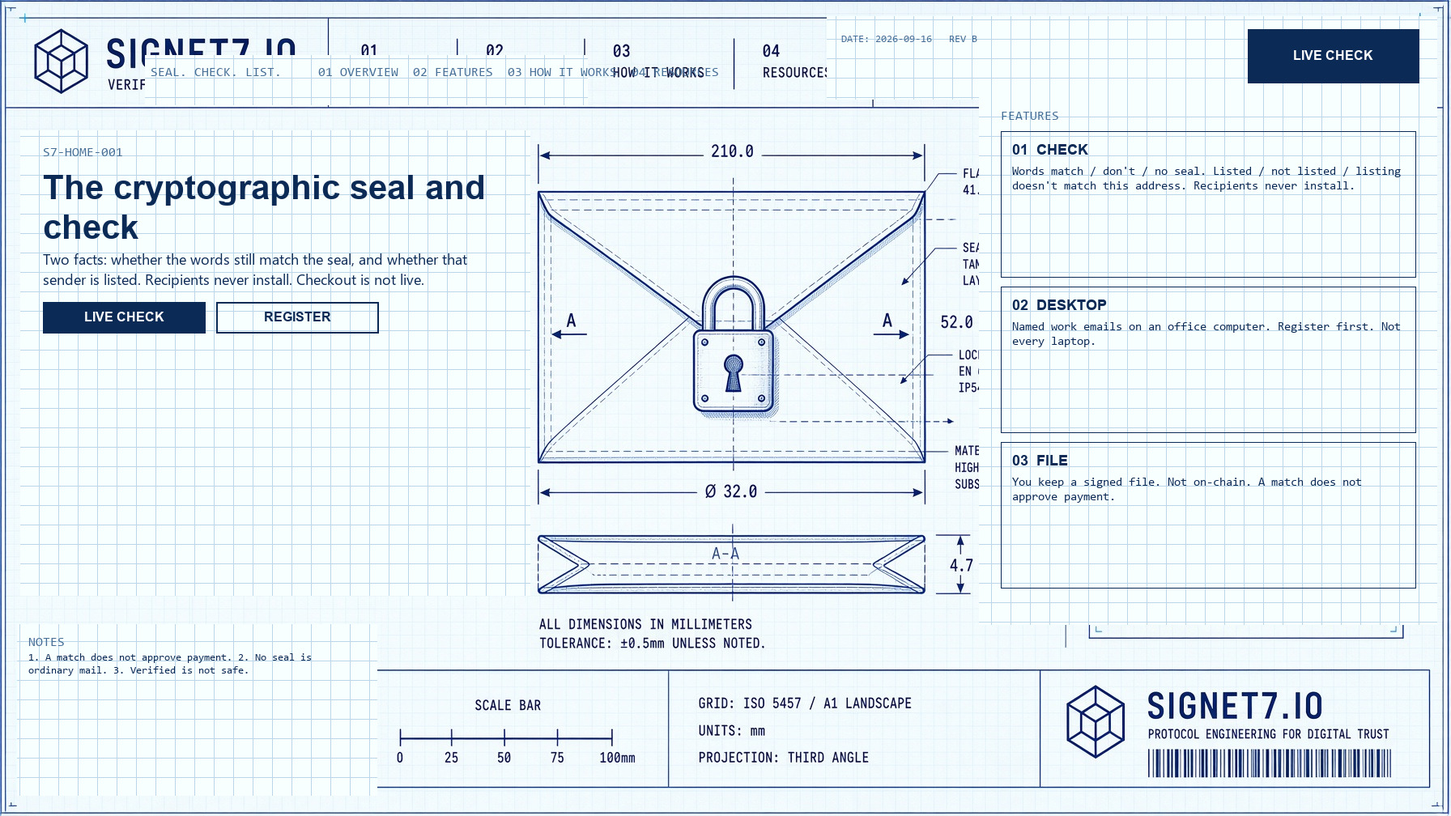
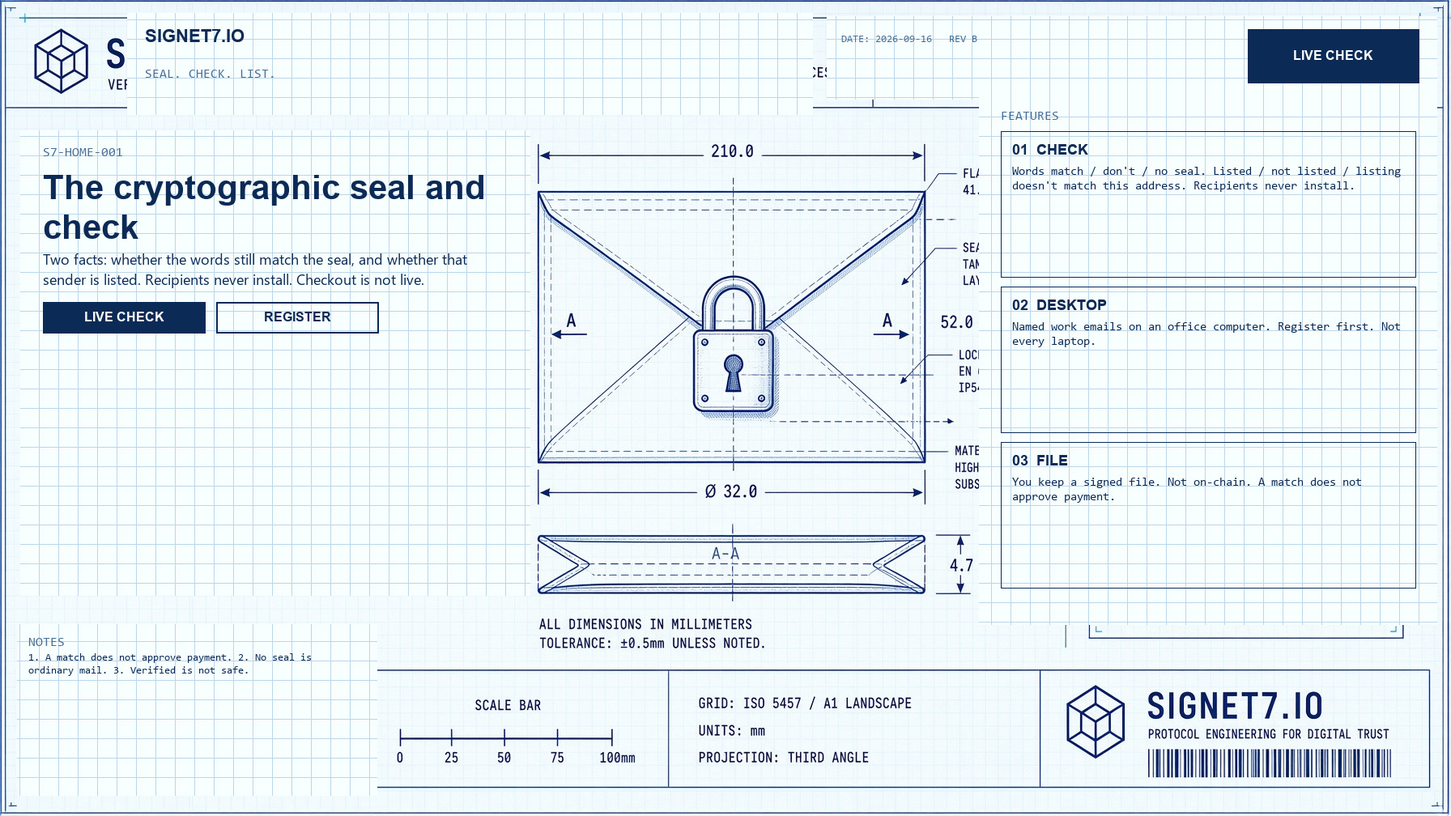
fix(site): clean mashed CAD header on homepage drawing (#174)
Cover leftover OVERVIEW/VERIFY chrome. Keep envelope, two-fact copy,
Live check / Register.

Changed region(s): [[0.0938, 0.0, 0.5625, 0.123]]

diff --git a/index.html b/index.html
@@ -14,11 +14,11 @@
   <meta property="og:description" content="Check whether an important email still matches the seal, and whether that sender is listed.">
   <meta property="og:type" content="website">
   <meta property="og:url" content="https://signet7.io/">
-  <meta property="og:image" content="https://signet7.io/assets/blueprint/homepage.jpg?v=20260916a">
+  <meta property="og:image" content="https://signet7.io/assets/blueprint/homepage.jpg?v=20260916b">
   <link rel="canonical" href="https://signet7.io/">
   <link rel="alternate" type="application/ld+json" href="assets/ld-website.json">
   <link rel="icon" type="image/png" href="assets/favicon.png">
-  <link rel="stylesheet" href="assets/site.css?v=20260916a">
+  <link rel="stylesheet" href="assets/site.css?v=20260916b">
   <script type="application/ld+json" src="assets/ld-website.json"></script>
 </head>
 <body class="home">
@@ -59,7 +59,7 @@
   <main id="main">
     <section class="sell-hero" aria-labelledby="hero-title">
       <div class="scene-wrap hero-scene cad-scene">
-        <img class="cad-envelope blueprint-hero" src="assets/blueprint/homepage.jpg?v=20260916a" width="1792" height="1008" alt="Signet7 homepage blueprint drawing with a dimensioned sealed envelope on a CAD grid.">
+        <img class="cad-envelope blueprint-hero" src="assets/blueprint/homepage.jpg?v=20260916b" width="1792" height="1008" alt="Signet7 homepage blueprint drawing with a dimensioned sealed envelope on a CAD grid.">
       </div>
       <div class="container nutshell">
         <p class="kicker dim">DWG S7-HOME-001 · REV A · SCALE NTS</p>
@@ -79,17 +79,17 @@
         <h2>Check a message. List the work email. Keep the file.</h2>
         <div class="feature-grid">
           <article class="feat">
-            <a href="check"><img src="assets/blueprint/check.jpg?v=20260916a" width="1792" height="1008" alt="Live-check blueprint drawing."></a>
+            <a href="check"><img src="assets/blueprint/check.jpg?v=20260916b" width="1792" height="1008" alt="Live-check blueprint drawing."></a>
             <h3>Check a message</h3>
             <p>Free. No account. Save the original message and drop it on the live check. Recipients never install.</p>
           </article>
           <article class="feat">
-            <a href="download"><img src="assets/blueprint/download.jpg?v=20260916a" width="1792" height="1008" alt="Desktop download blueprint drawing."></a>
+            <a href="download"><img src="assets/blueprint/download.jpg?v=20260916b" width="1792" height="1008" alt="Desktop download blueprint drawing."></a>
             <h3>List the work email</h3>
             <p>Register first. Signet7 desktop on named work emails. Not every laptop. Recipients never install.</p>
           </article>
           <article class="feat">
-            <a href="product"><img src="assets/blueprint/evidence.jpg?v=20260916a" width="1792" height="1008" alt="Evidence-record blueprint drawing."></a>
+            <a href="product"><img src="assets/blueprint/evidence.jpg?v=20260916b" width="1792" height="1008" alt="Evidence-record blueprint drawing."></a>
             <h3>Keep the file</h3>
             <p>The seal is on the message. That file is the record. You can show later that the words still matched.</p>
           </article>
@@ -102,9 +102,9 @@
         <p class="eyebrow">SHEET INDEX</p>
         <h2>The drawings</h2>
         <div class="feature-grid">
-          <article class="feat"><a href="product"><img src="assets/blueprint/product.jpg?v=20260916a" width="1792" height="1008" alt="Product blueprint drawing."></a><h3>Product</h3><p>Seal, check, desktop.</p></article>
-          <article class="feat"><a href="programs"><img src="assets/blueprint/programs.jpg?v=20260916a" width="1792" height="1008" alt="Programs blueprint drawing."></a><h3>Programs</h3><p>Checkout is not live. Amounts are not set.</p></article>
-          <article class="feat"><a href="docs.html"><img src="assets/blueprint/howto.jpg?v=20260916a" width="1792" height="1008" alt="How-to blueprint drawing."></a><h3>Docs</h3><p>How to check. How to install after register.</p></article>
+          <article class="feat"><a href="product"><img src="assets/blueprint/product.jpg?v=20260916b" width="1792" height="1008" alt="Product blueprint drawing."></a><h3>Product</h3><p>Seal, check, desktop.</p></article>
+          <article class="feat"><a href="programs"><img src="assets/blueprint/programs.jpg?v=20260916b" width="1792" height="1008" alt="Programs blueprint drawing."></a><h3>Programs</h3><p>Checkout is not live. Amounts are not set.</p></article>
+          <article class="feat"><a href="docs.html"><img src="assets/blueprint/howto.jpg?v=20260916b" width="1792" height="1008" alt="How-to blueprint drawing."></a><h3>Docs</h3><p>How to check. How to install after register.</p></article>
         </div>
       </div>
     </section>

diff --git a/programs.html b/programs.html
@@ -5,7 +5,7 @@
  enforceable subset. NOTE: frame-ancestors is ignored when delivered via <meta>;
  real clickjacking protection requires a header layer (Cloudflare/CloudFront) and
  is required before any verification surface is hosted on this domain. -->
-<meta http-equiv="Content-Security-Policy" content="default-src 'self'; script-src 'self'; style-src 'self'; img-src 'self'; font-src 'self'; connect-src 'self'; object-src 'none'; base-uri 'none'; form-action 'self'; frame-ancestors 'none'; upgrade-insecure-requests"><meta name="referrer" content="strict-origin-when-cross-origin"><meta http-equiv="X-Content-Type-Options" content="nosniff"><title>Programs | Signet7</title><meta name="description" content="Signet7 can seal outgoing email. Check for free. Signet7 desktop names several work emails. Each email gets its own listing. Checkout is not live."><link rel="canonical" href="https://signet7.io/programs"><meta property="og:title" content="Programs | Signet7"><meta property="og:description" content="Signet7 can seal outgoing email. Check for free. Signet7 desktop for several work emails. Checkout is not live."><meta property="og:type" content="website"><meta property="og:url" content="https://signet7.io/programs"><meta property="og:image" content="https://signet7.io/assets/blueprint/homepage.jpg?v=20260916a"><meta name="twitter:card" content="summary_large_image"><link rel="icon" type="image/png" href="assets/favicon.png"><meta name="theme-color" content="#05080d"><link rel="stylesheet" href="assets/site.css?v=20260916a"></head>
+<meta http-equiv="Content-Security-Policy" content="default-src 'self'; script-src 'self'; style-src 'self'; img-src 'self'; font-src 'self'; connect-src 'self'; object-src 'none'; base-uri 'none'; form-action 'self'; frame-ancestors 'none'; upgrade-insecure-requests"><meta name="referrer" content="strict-origin-when-cross-origin"><meta http-equiv="X-Content-Type-Options" content="nosniff"><title>Programs | Signet7</title><meta name="description" content="Signet7 can seal outgoing email. Check for free. Signet7 desktop names several work emails. Each email gets its own listing. Checkout is not live."><link rel="canonical" href="https://signet7.io/programs"><meta property="og:title" content="Programs | Signet7"><meta property="og:description" content="Signet7 can seal outgoing email. Check for free. Signet7 desktop for several work emails. Checkout is not live."><meta property="og:type" content="website"><meta property="og:url" content="https://signet7.io/programs"><meta property="og:image" content="https://signet7.io/assets/blueprint/homepage.jpg?v=20260916b"><meta name="twitter:card" content="summary_large_image"><link rel="icon" type="image/png" href="assets/favicon.png"><meta name="theme-color" content="#05080d"><link rel="stylesheet" href="assets/site.css?v=20260916b"></head>
 <body>
  <a class="skip-link" href="#main">Skip to content</a>
  <header class="site-header"><div class="container nav-wrap"><a class="brand" href="/"><svg class="cad-mark" viewBox="0 0 64 64" width="46" height="46" aria-hidden="true" focusable="false"><g fill="none" stroke="#7ed6f0" stroke-width="2.2"><path d="M12 22 L32 12 L52 22 L52 42 L32 52 L12 42 Z"/><path d="M32 12 L32 32 L12 42"/><path d="M32 32 L52 42"/></g></svg><span>Signet7</span></a> <button class="nav-toggle" type="button" aria-expanded="false" aria-controls="site-nav" aria-label="Open menu">Menu</button>
@@ -34,7 +34,7 @@
  <main id="main">
  <section class="page-hero"><div class="container"><p class="eyebrow">Commercial direction</p><h1>Seal outgoing email. Check for free. Signet7 desktop for several work emails.</h1><p class="hero-copy">Signet7 can cryptographically seal outgoing email from the mail you already use. Anyone can then verify on the website. No account. The company download names the work emails that can move money, jobs, or clients — purchasing, billing, trust, intake. Each of those emails gets its own listing. Not every laptop. Free access should buy evidence, not vanity seats.</p><div class="badge-row"><span class="badge cyan">No per-seat install</span><span class="badge gold">Checkout not live yet</span><span class="badge">$0 now</span></div></div></section>
 <figure class="blueprint-sheet">
-<img class="blueprint-plate" src="assets/blueprint/programs.jpg?v=20260916a" width="1792" height="1008" alt="Programs drawing">
+<img class="blueprint-plate" src="assets/blueprint/programs.jpg?v=20260916b" width="1792" height="1008" alt="Programs drawing">
 <figcaption>Programs drawing. Amounts are not set. Checkout is not live. Recipients never install.</figcaption>
 </figure>
 

diff --git a/integrations.html b/integrations.html
@@ -5,7 +5,7 @@
  enforceable subset. NOTE: frame-ancestors is ignored when delivered via <meta>;
  real clickjacking protection requires a header layer (Cloudflare/CloudFront) and
  is required before any verification surface is hosted on this domain. -->
-<meta http-equiv="Content-Security-Policy" content="default-src 'self'; script-src 'self'; style-src 'self'; img-src 'self'; font-src 'self'; connect-src 'self'; object-src 'none'; base-uri 'none'; form-action 'self'; frame-ancestors 'none'; upgrade-insecure-requests"><meta name="referrer" content="strict-origin-when-cross-origin"><meta http-equiv="X-Content-Type-Options" content="nosniff"><title>Integrations | Signet7 API &amp; MCP</title><meta name="description" content="Review Signet7 API/MCP-first agent gating, caller-enforcement contract, email integration candidates, and current deployment boundaries."><link rel="canonical" href="https://signet7.io/integrations"><meta property="og:title" content="Integrations | Signet7 API &amp; MCP"><meta property="og:description" content="Review Signet7 API/MCP-first agent gating, caller-enforcement contract, email integration candidates, and current deployment boundaries."><meta property="og:type" content="website"><meta property="og:url" content="https://signet7.io/integrations"><meta property="og:image" content="https://signet7.io/assets/blueprint/homepage.jpg?v=20260916a"><meta name="twitter:card" content="summary_large_image"><link rel="icon" type="image/png" href="assets/favicon.png"><meta name="theme-color" content="#05080d"><link rel="stylesheet" href="assets/site.css?v=20260916a"></head>
+<meta http-equiv="Content-Security-Policy" content="default-src 'self'; script-src 'self'; style-src 'self'; img-src 'self'; font-src 'self'; connect-src 'self'; object-src 'none'; base-uri 'none'; form-action 'self'; frame-ancestors 'none'; upgrade-insecure-requests"><meta name="referrer" content="strict-origin-when-cross-origin"><meta http-equiv="X-Content-Type-Options" content="nosniff"><title>Integrations | Signet7 API &amp; MCP</title><meta name="description" content="Review Signet7 API/MCP-first agent gating, caller-enforcement contract, email integration candidates, and current deployment boundaries."><link rel="canonical" href="https://signet7.io/integrations"><meta property="og:title" content="Integrations | Signet7 API &amp; MCP"><meta property="og:description" content="Review Signet7 API/MCP-first agent gating, caller-enforcement contract, email integration candidates, and current deployment boundaries."><meta property="og:type" content="website"><meta property="og:url" content="https://signet7.io/integrations"><meta property="og:image" content="https://signet7.io/assets/blueprint/homepage.jpg?v=20260916b"><meta name="twitter:card" content="summary_large_image"><link rel="icon" type="image/png" href="assets/favicon.png"><meta name="theme-color" content="#05080d"><link rel="stylesheet" href="assets/site.css?v=20260916b"></head>
 <body>
  <a class="skip-link" href="#main">Skip to content</a>
  <header class="site-header"><div class="container nav-wrap"><a class="brand" href="/"><svg class="cad-mark" viewBox="0 0 64 64" width="46" height="46" aria-hidden="true" focusable="false"><g fill="none" stroke="#7ed6f0" stroke-width="2.2"><path d="M12 22 L32 12 L52 22 L52 42 L32 52 L12 42 Z"/><path d="M32 12 L32 32 L12 42"/><path d="M32 32 L52 42"/></g></svg><span>Signet7</span></a> <button class="nav-toggle" type="button" aria-expanded="false" aria-controls="site-nav" aria-label="Open menu">Menu</button>

diff --git a/trust.html b/trust.html
@@ -5,7 +5,7 @@
  enforceable subset. NOTE: frame-ancestors is ignored when delivered via <meta>;
  real clickjacking protection requires a header layer (Cloudflare/CloudFront) and
  is required before any verification surface is hosted on this domain. -->
-<meta http-equiv="Content-Security-Policy" content="default-src 'self'; script-src 'self'; style-src 'self'; img-src 'self'; font-src 'self'; connect-src 'self'; object-src 'none'; base-uri 'none'; form-action 'self'; frame-ancestors 'none'; upgrade-insecure-requests"><meta name="referrer" content="strict-origin-when-cross-origin"><meta http-equiv="X-Content-Type-Options" content="nosniff"><title>Trust &amp; Evidence | Signet7</title><meta name="description" content="Understand Signet7 signature-bound sender identity, trust states, decision evidence, and whether this From address is listed."><link rel="canonical" href="https://signet7.io/trust"><meta property="og:title" content="Trust &amp; Evidence | Signet7"><meta property="og:description" content="Understand Signet7 signature-bound sender identity, trust states, decision evidence, and whether this From address is listed."><meta property="og:type" content="website"><meta property="og:url" content="https://signet7.io/trust"><meta property="og:image" content="https://signet7.io/assets/blueprint/homepage.jpg?v=20260916a"><meta name="twitter:card" content="summary_large_image"><link rel="icon" type="image/png" href="assets/favicon.png"><meta name="theme-color" content="#05080d"><link rel="stylesheet" href="assets/site.css?v=20260916a"></head>
+<meta http-equiv="Content-Security-Policy" content="default-src 'self'; script-src 'self'; style-src 'self'; img-src 'self'; font-src 'self'; connect-src 'self'; object-src 'none'; base-uri 'none'; form-action 'self'; frame-ancestors 'none'; upgrade-insecure-requests"><meta name="referrer" content="strict-origin-when-cross-origin"><meta http-equiv="X-Content-Type-Options" content="nosniff"><title>Trust &amp; Evidence | Signet7</title><meta name="description" content="Understand Signet7 signature-bound sender identity, trust states, decision evidence, and whether this From address is listed."><link rel="canonical" href="https://signet7.io/trust"><meta property="og:title" content="Trust &amp; Evidence | Signet7"><meta property="og:description" content="Understand Signet7 signature-bound sender identity, trust states, decision evidence, and whether this From address is listed."><meta property="og:type" content="website"><meta property="og:url" content="https://signet7.io/trust"><meta property="og:image" content="https://signet7.io/assets/blueprint/homepage.jpg?v=20260916b"><meta name="twitter:card" content="summary_large_image"><link rel="icon" type="image/png" href="assets/favicon.png"><meta name="theme-color" content="#05080d"><link rel="stylesheet" href="assets/site.css?v=20260916b"></head>
 <body>
  <a class="skip-link" href="#main">Skip to content</a>
  <header class="site-header"><div class="container nav-wrap"><a class="brand" href="/"><svg class="cad-mark" viewBox="0 0 64 64" width="46" height="46" aria-hidden="true" focusable="false"><g fill="none" stroke="#7ed6f0" stroke-width="2.2"><path d="M12 22 L32 12 L52 22 L52 42 L32 52 L12 42 Z"/><path d="M32 12 L32 32 L12 42"/><path d="M32 32 L52 42"/></g></svg><span>Signet7</span></a> <button class="nav-toggle" type="button" aria-expanded="false" aria-controls="site-nav" aria-label="Open menu">Menu</button>

diff --git a/product.html b/product.html
@@ -16,10 +16,10 @@
  <meta property="og:description" content="Signet7 can seal the email. Recipients then verify. Recipients do not install.">
  <meta property="og:type" content="website">
  <meta property="og:url" content="https://signet7.io/product">
- <meta property="og:image" content="https://signet7.io/assets/blueprint/homepage.jpg?v=20260916a">
+ <meta property="og:image" content="https://signet7.io/assets/blueprint/homepage.jpg?v=20260916b">
  <meta name="twitter:card" content="summary_large_image">
  <link rel="icon" type="image/png" href="assets/favicon.png">
- <link rel="stylesheet" href="assets/site.css?v=20260916a">
+ <link rel="stylesheet" href="assets/site.css?v=20260916b">
 </head>
 <body>
  <a class="skip-link" href="#main">Skip to content</a>
@@ -64,7 +64,7 @@
  </div>
 </section>
 <figure class="blueprint-sheet">
-<img class="blueprint-plate" src="assets/blueprint/product.jpg?v=20260916a" width="1792" height="1008" alt="Product blueprint drawing">
+<img class="blueprint-plate" src="assets/blueprint/product.jpg?v=20260916b" width="1792" height="1008" alt="Product blueprint drawing">
 <figcaption>Product blueprint drawing. Live Signet7 is seal, check, and the company desktop. Checkout is not live.</figcaption>
 </figure>
 
@@ -100,9 +100,9 @@
    <article class="card" id="watch"><h3>Signet7 desktop</h3><p>Signet7 desktop on one office computer. Several named work emails. It reads incoming on that set. Opt-in stamp when you send, still in your mail app. Ordinary mail stays quiet. It shouts if a stamp is torn.</p><p id="product-records-vault">Optional encrypted records vault on that computer for money and account mail. You hold the recovery key. Cap is 10 GB. Warning at 50%. Export a zip before 90%. The public website check does not keep the letter. Recipients never use the vault. Not a court stamp.</p><p><a href="register">Signet7 desktop</a></p></article>
  </div>
  <div class="art-trio">
-  <figure><img src="assets/blueprint/check.jpg?v=20260916a" width="1792" height="1008" alt="Live-check blueprint drawing."><figcaption>The check</figcaption></figure>
-  <figure><img src="assets/blueprint/download.jpg?v=20260916a" width="1792" height="1008" alt="Desktop download blueprint drawing."><figcaption>Signet7 desktop</figcaption></figure>
-  <figure><img src="assets/blueprint/evidence.jpg?v=20260916a" width="1792" height="1008" alt="Evidence-record blueprint drawing."><figcaption>Optional stamp</figcaption></figure>
+  <figure><img src="assets/blueprint/check.jpg?v=20260916b" width="1792" height="1008" alt="Live-check blueprint drawing."><figcaption>The check</figcaption></figure>
+  <figure><img src="assets/blueprint/download.jpg?v=20260916b" width="1792" height="1008" alt="Desktop download blueprint drawing."><figcaption>Signet7 desktop</figcaption></figure>
+  <figure><img src="assets/blueprint/evidence.jpg?v=20260916b" width="1792" height="1008" alt="Evidence-record blueprint drawing."><figcaption>Optional stamp</figcaption></figure>
  </div>
  <p class="section-intro">Look up a company when you enroll. Checkout is not live. Engineers: the contract lives on <a href="docs#spec">Docs</a>.</p>
  <p><a href="scenarios">Send and receive</a> · <a href="programs">Programs</a> · <a href="enterprise">Enterprise</a> · <a href="pilot">Pilot</a> · <a href="integrations">Integrations</a> · <a href="pay">Pay</a></p>

diff --git a/docs.html b/docs.html
@@ -13,15 +13,15 @@
  <meta property="og:description" content="How to seal outgoing email, then verify a message, and use Outlook, Apple Mail, Gmail, or Thunderbird with Signet7.">
  <meta property="og:type" content="website">
  <meta property="og:url" content="https://signet7.io/docs">
- <meta property="og:image" content="https://signet7.io/assets/blueprint/homepage.jpg?v=20260916a">
+ <meta property="og:image" content="https://signet7.io/assets/blueprint/homepage.jpg?v=20260916b">
  <meta name="twitter:card" content="summary_large_image">
  <meta name="description" content="How to seal outgoing email, then verify a message, and use Outlook, Apple Mail, Gmail, or Thunderbird with Signet7.">
  <meta name="theme-color" content="#05080d">
  <title>Documentation | Signet7</title>
  <link rel="icon" type="image/png" href="assets/favicon.png">
  <link rel="apple-touch-icon" href="assets/apple-touch-icon.png">
- <link rel="stylesheet" href="assets/site.css?v=20260916a">
- <link rel="stylesheet" href="assets/docs.css?v=20260916a">
+ <link rel="stylesheet" href="assets/site.css?v=20260916b">
+ <link rel="stylesheet" href="assets/docs.css?v=20260916b">
 </head>
 <body class="docs-manual">
  <a class="skip-link" href="#main">Skip to content</a>
@@ -95,7 +95,7 @@
  </div>
  </section>
 <figure class="blueprint-sheet">
-<img class="blueprint-plate" src="assets/blueprint/howto.jpg?v=20260916a" width="1792" height="1008" alt="Sixty-second check drawing">
+<img class="blueprint-plate" src="assets/blueprint/howto.jpg?v=20260916b" width="1792" height="1008" alt="Sixty-second check drawing">
 <figcaption>Sixty-second check drawing. Register first for the company zip.</figcaption>
 </figure>
 

diff --git a/download.html b/download.html
@@ -15,10 +15,10 @@
  <meta property="og:description" content="Download Signet7 desktop for several work emails. Recipients use the live check.">
  <meta property="og:type" content="website">
  <meta property="og:url" content="https://signet7.io/download">
- <meta property="og:image" content="https://signet7.io/assets/blueprint/homepage.jpg?v=20260916a">
+ <meta property="og:image" content="https://signet7.io/assets/blueprint/homepage.jpg?v=20260916b">
  <link rel="canonical" href="https://signet7.io/download">
  <link rel="icon" type="image/png" href="assets/favicon.png">
- <link rel="stylesheet" href="assets/site.css?v=20260916a">
+ <link rel="stylesheet" href="assets/site.css?v=20260916b">
  <link rel="stylesheet" href="assets/download.css">
  <link rel="stylesheet" href="assets/install-chooser.css?v=20260831c">
 </head>
@@ -71,7 +71,7 @@
  </div>
  </section>
 <figure class="blueprint-sheet">
-<img class="blueprint-plate" src="assets/blueprint/download.jpg?v=20260916a" width="1792" height="1008" alt="Desktop drawing">
+<img class="blueprint-plate" src="assets/blueprint/download.jpg?v=20260916b" width="1792" height="1008" alt="Desktop drawing">
 <figcaption>Desktop drawing. Register first. The zip is on the company desk after sign-in.</figcaption>
 </figure>
 

diff --git a/pilot.html b/pilot.html
@@ -12,11 +12,11 @@
  <meta property="og:description" content="A bounded four-week Signet7 Founding Design Partner evaluation for one consequential email workflow: payment instructions.">
  <meta property="og:type" content="website">
  <meta property="og:url" content="https://signet7.io/pilot">
- <meta property="og:image" content="https://signet7.io/assets/blueprint/homepage.jpg?v=20260916a">
+ <meta property="og:image" content="https://signet7.io/assets/blueprint/homepage.jpg?v=20260916b">
  <meta name="twitter:card" content="summary_large_image">
  <meta name="description" content="A bounded four-week Signet7 Founding Design Partner evaluation for one consequential email workflow: payment instructions.">
  <meta name="theme-color" content="#05080d"><title>Founding Design Partner Pilot | Signet7</title>
- <link rel="icon" type="image/png" href="assets/favicon.png"><link rel="apple-touch-icon" href="assets/apple-touch-icon.png"><link rel="stylesheet" href="assets/site.css?v=20260916a">
+ <link rel="icon" type="image/png" href="assets/favicon.png"><link rel="apple-touch-icon" href="assets/apple-touch-icon.png"><link rel="stylesheet" href="assets/site.css?v=20260916b">
 </head>
 <body>
  <a class="skip-link" href="#main">Skip to content</a>

diff --git a/terms.html b/terms.html
@@ -13,7 +13,7 @@
   <meta property="og:description" content="Review draft Signet7 terms for automated consequential-email evidence verification, dashboard administration, integrations, and customer responsibilities.">
   <meta property="og:type" content="website">
   <meta property="og:url" content="https://signet7.io/terms">
-  <meta property="og:image" content="https://signet7.io/assets/blueprint/homepage.jpg?v=20260916a">
+  <meta property="og:image" content="https://signet7.io/assets/blueprint/homepage.jpg?v=20260916b">
   <meta name="twitter:card" content="summary_large_image">
   <meta name="robots" content="noindex, nofollow">
   <meta name="description" content="Review draft Signet7 terms for automated consequential-email evidence verification, dashboard administration, integrations, and customer responsibilities.">
@@ -21,7 +21,7 @@
   <title>Terms of Service | Signet7</title>
   <link rel="icon" type="image/png" href="assets/favicon.png">
   <link rel="apple-touch-icon" href="assets/apple-touch-icon.png">
-  <link rel="stylesheet" href="assets/site.css?v=20260916a">
+  <link rel="stylesheet" href="assets/site.css?v=20260916b">
 </head>
 <body>
   <a class="skip-link" href="#main">Skip to content</a>

diff --git a/check.html b/check.html
@@ -15,10 +15,10 @@
  <meta property="og:description" content="How a recipient checks a Signet7-sealed email without installing software.">
  <meta property="og:type" content="website">
  <meta property="og:url" content="https://signet7.io/check">
- <meta property="og:image" content="https://signet7.io/assets/blueprint/homepage.jpg?v=20260916a">
+ <meta property="og:image" content="https://signet7.io/assets/blueprint/homepage.jpg?v=20260916b">
  <link rel="canonical" href="https://signet7.io/check">
  <link rel="icon" type="image/png" href="assets/favicon.png">
- <link rel="stylesheet" href="assets/site.css?v=20260916a">
+ <link rel="stylesheet" href="assets/site.css?v=20260916b">
 </head>
 <body>
  <a class="skip-link" href="#main">Skip to content</a>
@@ -64,7 +64,7 @@
  </div>
  </section>
 <figure class="blueprint-sheet">
-<img class="blueprint-plate" src="assets/blueprint/check.jpg?v=20260916a" width="1792" height="1008" alt="Live-check drawing">
+<img class="blueprint-plate" src="assets/blueprint/check.jpg?v=20260916b" width="1792" height="1008" alt="Live-check drawing">
 <figcaption>Live-check drawing. Recipients never install. No seal is ordinary mail.</figcaption>
 </figure>
 

diff --git a/disclaimer.html b/disclaimer.html
@@ -13,7 +13,7 @@
   <meta property="og:description" content="Signet7 evidence-verification disclaimer: what automated checks establish, what they do not establish, and what customers must still do.">
   <meta property="og:type" content="website">
   <meta property="og:url" content="https://signet7.io/disclaimer">
-  <meta property="og:image" content="https://signet7.io/assets/blueprint/homepage.jpg?v=20260916a">
+  <meta property="og:image" content="https://signet7.io/assets/blueprint/homepage.jpg?v=20260916b">
   <meta name="twitter:card" content="summary_large_image">
   <meta name="robots" content="noindex, nofollow">
   <meta name="description" content="Signet7 evidence-verification disclaimer: what automated checks establish, what they do not establish, and what customers must still do.">
@@ -21,7 +21,7 @@
   <title>Service Disclaimer | Signet7</title>
   <link rel="icon" type="image/png" href="assets/favicon.png">
   <link rel="apple-touch-icon" href="assets/apple-touch-icon.png">
-  <link rel="stylesheet" href="assets/site.css?v=20260916a">
+  <link rel="stylesheet" href="assets/site.css?v=20260916b">
 </head>
 <body>
   <a class="skip-link" href="#main">Skip to content</a>

diff --git a/about.html b/about.html
@@ -13,14 +13,14 @@
  <meta property="og:description" content="Meet the Signet7 founding team and the mission to help people cryptographically seal consequential email and check that seal before they act.">
  <meta property="og:type" content="website">
  <meta property="og:url" content="https://signet7.io/about">
- <meta property="og:image" content="https://signet7.io/assets/blueprint/homepage.jpg?v=20260916a">
+ <meta property="og:image" content="https://signet7.io/assets/blueprint/homepage.jpg?v=20260916b">
  <meta name="twitter:card" content="summary_large_image">
  <meta name="description" content="Meet the Signet7 founding team and the mission to help people cryptographically seal consequential email and check that seal before they act.">
  <meta name="theme-color" content="#05080d">
  <title>Team and Mission | Signet7</title>
  <link rel="icon" type="image/png" href="assets/favicon.png">
  <link rel="apple-touch-icon" href="assets/apple-touch-icon.png">
- <link rel="stylesheet" href="assets/site.css?v=20260916a">
+ <link rel="stylesheet" href="assets/site.css?v=20260916b">
 </head>
 <body>
  <a class="skip-link" href="#main">Skip to content</a>
